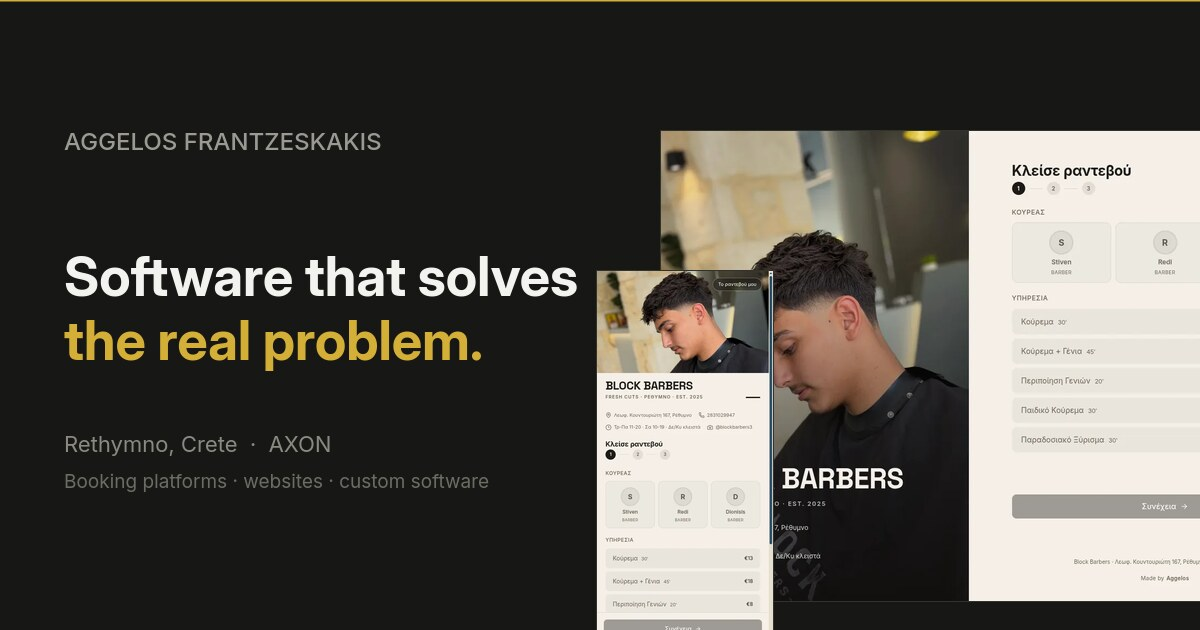
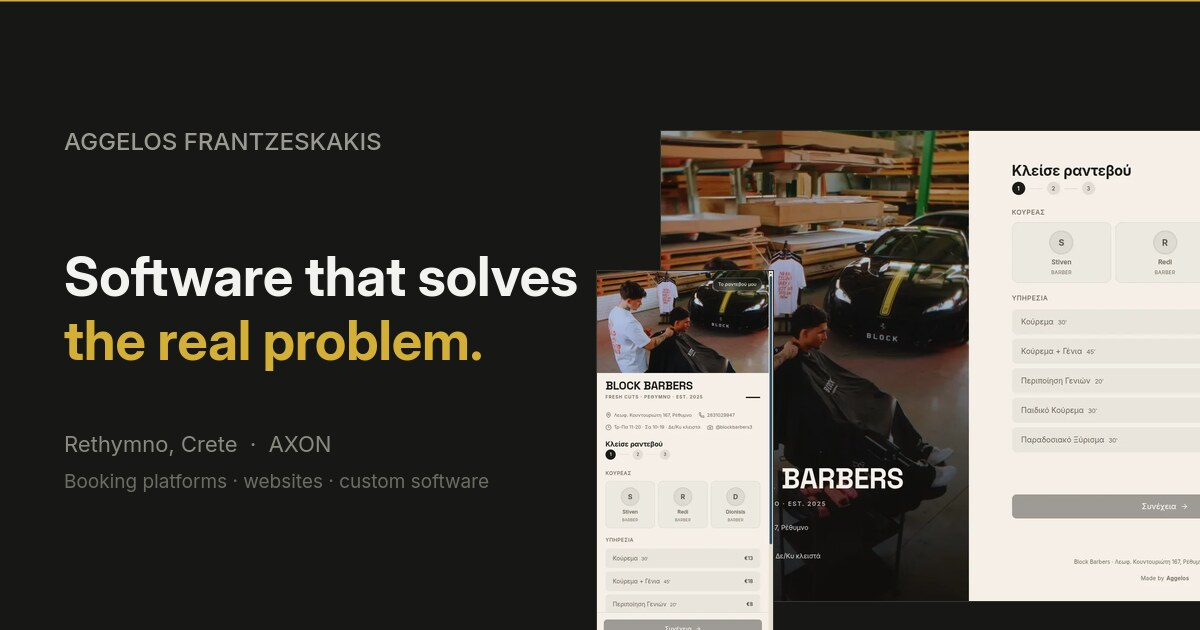
Swap product shots to a no-clear-face photo and remove the intro gate
The booking screenshots and OG card now use the shop's wide interior
photo (faces small or turned away) captured from the live demo. The
intro curtain is gone entirely: the page opens straight into the hero,
whose existing Reveal stagger already carries the entrance.

Changed region(s): [[0.4933, 0.181, 0.8325, 0.8444], [0.6475, 0.8444, 0.6783, 0.9349]]

diff --git a/client/src/lib/uiCopy.ts b/client/src/lib/uiCopy.ts
@@ -83,7 +83,6 @@ export const ui = {
     footerNote: "Aggelos Frantzeskakis · Rethymno, Crete",
     project: { private: "Private", public: "Public", privateKicker: "Private build", publicKicker: "Public project", openProjectPrefix: "Open details for", studyLabel: "Project study", openDetails: "Open details", fallback: "Private build — details on request.", detailFallback: "This study is generated from the current GitHub snapshot.", mixed: "Mixed", stars: "stars", forks: "forks", privateSource: "Source boundary: private", sourceGithub: "Source available on GitHub", closeDetails: "Close details", filterAll: "Everything", filterBusiness: "Business systems", filterAi: "AI", filterOffline: "Offline-first", emptyFilter: "Nothing in this category yet. Try “Everything”." },
     cv: { previewCode: "Document preview / 01", close: "Close CV preview", paperLabel: "Preview of the current factual CV draft", role: "Software Developer — Web & AI Systems (self-taught)", summary: "I ship software that runs in production, not tutorials: booking platforms for real businesses, offline-first PWAs, and tools that run local AI so client data never leaves the device.", selectedWork: "Selected work", capabilities: "Capabilities", currentDraft: "Full CV", grounded: "PDF · A4", draftNote: "The full document covers education, projects, the stack, and availability. Available for full-time work from November 2026.", replacementNote: "Every project listed is one I built and can walk you through, line by line.", confirmDetails: "Ask me anything by email", format: "PDF · A4", keepBrowsing: "Keep browsing", download: "Download CV", openDirectly: "Open PDF directly" },
-    intro: { aria: "Opening the portfolio", name: "Aggelos Frantzeskakis", place: "Rethymno · AXON", line: "Software that solves", lineAccent: "the actual problem.", skip: "Skip" },
     form: { name: "Your name", namePlaceholder: "Name", email: "Your email", emailPlaceholder: "you@example.com", subject: "Subject", subjectPlaceholder: "What this is about", message: "Message", messagePlaceholder: "What is slow, manual, or broken right now...", sending: "Sending securely…", sent: "Message sent. I’ll get back to you soon.", successToastTitle: "Message received", successToastDescription: "Thanks — your note is safely on its way. I’ll reply soon.", emailOpened: "Your email client should open now.", error: "Something went wrong. Please email me directly.", active: "Secure Formspree delivery is active.", fallback: "Email fallback is active until a Formspree endpoint is added.", compose: "Compose email", defaultSubject: "Portfolio collaboration", nameError: "Please enter your name (at least 2 characters).", emailError: "Please enter a valid email address.", subjectError: "Please enter a subject (at least 3 characters).", messageError: "Please enter a message (at least 10 characters)." },
   },
   el: {
@@ -164,7 +163,6 @@ export const ui = {
     footerNote: "Aggelos Frantzeskakis · Ρέθυμνο, Κρήτη",
     project: { private: "Ιδιωτικό", public: "Δημόσιο", privateKicker: "Ιδιωτικό build", publicKicker: "Δημόσιο project", openProjectPrefix: "Άνοιγμα λεπτομερειών για", studyLabel: "Μελέτη project", openDetails: "Άνοιγμα λεπτομερειών", fallback: "Ιδιωτικό build — λεπτομέρειες κατόπιν αιτήματος.", detailFallback: "Αυτή η μελέτη δημιουργείται από το τρέχον snapshot του GitHub.", mixed: "Μικτό", stars: "stars", forks: "forks", privateSource: "Όριο πηγής: ιδιωτικό", sourceGithub: "Η πηγή είναι διαθέσιμη στο GitHub", closeDetails: "Κλείσιμο λεπτομερειών", filterAll: "Όλα", filterBusiness: "Για επιχειρήσεις", filterAi: "AI", filterOffline: "Offline-first", emptyFilter: "Δεν υπάρχει κάτι σε αυτή την κατηγορία ακόμα. Δοκίμασε τα «Όλα»." },
     cv: { previewCode: "Προεπισκόπηση εγγράφου / 01", close: "Κλείσιμο προεπισκόπησης CV", paperLabel: "Προεπισκόπηση του τρέχοντος factual draft CV", role: "Software Developer — Web & AI Systems (αυτοδίδακτος)", summary: "Γράφω λογισμικό που τρέχει σε παραγωγή, όχι tutorials: πλατφόρμες κρατήσεων για πραγματικές επιχειρήσεις, offline-first PWAs, και εργαλεία με τοπικό AI ώστε τα δεδομένα του πελάτη να μη φεύγουν ποτέ από τη συσκευή.", selectedWork: "Επιλεγμένα έργα", capabilities: "Ικανότητες", currentDraft: "Πλήρες CV", grounded: "PDF · A4", draftNote: "Το πλήρες έγγραφο καλύπτει σπουδές, έργα, stack και διαθεσιμότητα. Διαθέσιμος για πλήρη απασχόληση από τον Νοέμβριο του 2026.", replacementNote: "Κάθε έργο της λίστας το έχω χτίσει ο ίδιος και μπορώ να σου το εξηγήσω γραμμή προς γραμμή.", confirmDetails: "Ρώτησέ με ό,τι θες με email", format: "PDF · A4", keepBrowsing: "Συνέχισε την περιήγηση", download: "Λήψη CV", openDirectly: "Άνοιγμα PDF απευθείας" },
-    intro: { aria: "Άνοιγμα του portfolio", name: "Aggelos Frantzeskakis", place: "Ρέθυμνο · AXON", line: "Λογισμικό που λύνει", lineAccent: "το πραγματικό πρόβλημα.", skip: "Παράλειψη" },
     form: { name: "Το όνομά σου", namePlaceholder: "Όνομα", email: "Το email σου", emailPlaceholder: "you@example.com", subject: "Θέμα", subjectPlaceholder: "Σχετικά με", message: "Μήνυμα", messagePlaceholder: "Τι είναι αργό, χειροκίνητο ή χαλασμένο αυτή τη στιγμή...", sending: "Ασφαλής αποστολή…", sent: "Το μήνυμα στάλθηκε. Θα σου απαντήσω σύντομα.", successToastTitle: "Το μήνυμα παραλήφθηκε", successToastDescription: "Ευχαριστώ — το μήνυμά σου στάλθηκε με ασφάλεια. Θα απαντήσω σύντομα.", emailOpened: "Το email client σου θα πρέπει να ανοίξει τώρα.", error: "Κάτι πήγε στραβά. Στείλε μου απευθείας email.", active: "Η ασφαλής παράδοση μέσω Formspree είναι ενεργή.", fallback: "Το email fallback είναι ενεργό μέχρι να προστεθεί Formspree endpoint.", compose: "Σύνταξη email", defaultSubject: "Συνεργασία μέσω portfolio", nameError: "Γράψε το όνομά σου (τουλάχιστον 2 χαρακτήρες).", emailError: "Γράψε ένα έγκυρο email.", subjectError: "Γράψε ένα θέμα (τουλάχιστον 3 χαρακτήρες).", messageError: "Γράψε το μήνυμα (τουλάχιστον 10 χαρακτήρες)." },
   },
 } as const;

diff --git a/client/src/pages/Home.tsx b/client/src/pages/Home.tsx
@@ -406,92 +406,7 @@ function ContactForm({ language }: { language: Language }) {
   </form>;
 }
 
-/**
- * Intro curtain.
- * Shown once per browser session, skippable at any moment, and gone in under a second.
- * A visitor who opens the site twice — a client following up on a link — never waits again.
- */
-function Intro({ onComplete, language }: { onComplete: () => void; language: Language }) {
-  const [progress, setProgress] = useState(0);
-  const [exiting, setExiting] = useState(false);
-  const t = ui[language].intro;
-  const reduced = useReducedMotion();
-
-  const skip = useCallback(() => setExiting(true), []);
-
-  useEffect(() => {
-    let frameId = 0;
-    const duration = reduced ? 200 : 950;
-    const startedAt = window.performance.now();
-
-    const tick = (now: number) => {
-      const ratio = Math.min(1, (now - startedAt) / duration);
-      setProgress(Math.round((1 - Math.pow(1 - ratio, 3)) * 100));
-      if (ratio >= 1) { setExiting(true); return; }
-      frameId = window.requestAnimationFrame(tick);
-    };
-    frameId = window.requestAnimationFrame(tick);
-
-    // The curtain owns the screen while it is up: no scrolling behind it, no stray scrollbar.
-    const previousOverflow = document.body.style.overflow;
-    document.body.style.overflow = "hidden";
-    window.addEventListener("keydown", skip);
-    window.addEventListener("wheel", skip, { passive: true });
-    window.addEventListener("touchstart", skip, { passive: true });
-    return () => {
-      window.cancelAnimationFrame(frameId);
-      document.body.style.overflow = previousOverflow;
-      window.removeEventListener("keydown", skip);
-      window.removeEventListener("wheel", skip);
-      window.removeEventListener("touchstart", skip);
-    };
-  }, [reduced, skip]);
-
-  useEffect(() => {
-    if (!exiting) return;
-    const timer = window.setTimeout(onComplete, reduced ? 60 : 420);
-    return () => window.clearTimeout(timer);
-  }, [exiting, onComplete, reduced]);
-
-  return <motion.div
-    className={`intro ${exiting ? "is-exiting" : ""}`}
-    role="dialog"
-    aria-modal="true"
-    aria-label={t.aria}
-    onClick={skip}
-    initial={{ opacity: 1 }}
-    exit={{ opacity: 0, y: reduced ? 0 : "-4%" }}
-    transition={{ duration: reduced ? .06 : .42, ease: [0.22, 1, 0.36, 1] }}
-  >
-    <div className="intro__rule" aria-hidden="true" style={{ transform: `scaleX(${progress / 100})` }} />
-    <div className="intro__corner intro__corner--top"><span>{t.name}</span><span>{t.place}</span></div>
-
-    <div className="intro__center">
-      <span className="intro__mark" aria-hidden="true">AF</span>
-      <p className="intro__line">{t.line}</p>
-      <p className="intro__accent">{t.lineAccent}</p>
-    </div>
-
-    <div className="intro__corner intro__corner--bottom">
-      <span
-        className="intro__progress"
-        role="progressbar"
-        aria-valuemin={0}
-        aria-valuemax={100}
-        aria-valuenow={progress}
-        aria-label={t.aria}
-      >{String(progress).padStart(3, "0")}</span>
-      <button type="button" className="intro__skip" onClick={skip}>{t.skip}</button>
-    </div>
-  </motion.div>;
-}
-
 export default function Home() {
-  // The intro plays once per session. A client who reopens the link goes straight to the content.
-  const [isLoading, setIsLoading] = useState(() => {
-    if (typeof window === "undefined") return false;
-    try { return window.sessionStorage.getItem("af-intro-seen") !== "1"; } catch { return true; }
-  });
   const [activeSection, setActiveSection] = useState("home");
   const [language, setLanguage] = useState<Language>(() => {
     if (typeof window === "undefined") return "en";
@@ -509,10 +424,6 @@ export default function Home() {
 
   const reduced = useReducedMotion();
   const { theme, toggleTheme } = useTheme();
-  const completeLoading = useCallback(() => {
-    try { window.sessionStorage.setItem("af-intro-seen", "1"); } catch { /* private mode: just move on */ }
-    setIsLoading(false);
-  }, []);
   const t = ui[language];
 
   useEffect(() => {
@@ -607,7 +518,6 @@ export default function Home() {
   });
 
   return <main className={`app-shell motion-${scrollDirection}`} data-active-section={activeSection}>
-    <AnimatePresence>{isLoading && <Intro onComplete={completeLoading} language={language} />}</AnimatePresence>
     <div className="grain" aria-hidden="true" />
     <header className="topbar">
       <a className="brand" href="#home" onClick={(event) => { event.preventDefault(); scrollToSection("home"); }} aria-label={t.brandHome}>

diff --git a/client/src/index.css b/client/src/index.css
@@ -476,25 +476,6 @@ a, button, [role="button"], summary { cursor: pointer; }
 }
 
 /* ─────────────────────────────────────────────────────────────
-   Intro curtain
-   One rule drawing left to right, the wordmark, one honest line.
-   No decoration that has to be explained.
-   ───────────────────────────────────────────────────────────── */
-.intro { position: fixed; inset: 0; z-index: 200; display: grid; place-items: center; overflow: hidden; padding: 24px; color: #f4f4ef; background: #121211; cursor: pointer; isolation: isolate; }
-.intro__rule { position: absolute; top: 0; right: 0; left: 0; height: 2px; background: var(--accent); transform-origin: left center; will-change: transform; }
-.intro__corner { position: absolute; right: 26px; left: 26px; display: flex; align-items: center; justify-content: space-between; gap: 16px; color: rgba(244,244,239,.5); font: 9px 'DM Mono', monospace; letter-spacing: .1em; text-transform: uppercase; }
-.intro__corner--top { top: 24px; }
-.intro__corner--bottom { bottom: 24px; }
-.intro__center { display: flex; flex-direction: column; align-items: center; gap: 0; text-align: center; }
-.intro__mark { display: block; margin-bottom: 26px; color: var(--accent); font: 500 clamp(3.4rem, 12vw, 6rem)/1 'Playfair Display', serif; letter-spacing: -.09em; }
-.intro__line { max-width: 18ch; margin: 0; font: 500 clamp(1.5rem, 5.2vw, 2.75rem)/1.16 'Playfair Display', serif; letter-spacing: -.03em; }
-.intro__accent { max-width: 18ch; margin: 2px 0 0; color: var(--accent); font: italic 500 clamp(1.5rem, 5.2vw, 2.75rem)/1.16 'Playfair Display', serif; letter-spacing: -.03em; }
-.intro__progress { color: var(--accent); font-variant-numeric: tabular-nums; }
-.intro__skip { padding: 8px 4px; color: rgba(244,244,239,.5); background: transparent; font: inherit; letter-spacing: inherit; text-transform: inherit; }
-.intro__skip:hover, .intro__skip:focus-visible { color: #f4f4ef; }
-.intro.is-exiting { pointer-events: none; }
-
-/* ─────────────────────────────────────────────────────────────
    Hero proof — the actual product, on the two screens it runs on.
    ───────────────────────────────────────────────────────────── */
 .hero-proof { position: relative; display: block; width: 100%; padding: 0 0 46px 0; }
@@ -523,8 +504,6 @@ a, button, [role="button"], summary { cursor: pointer; }
 html[lang="el"] .hero-panel h1,
 html[lang="el"] .panel h2,
 html[lang="el"] .skills-tools__head h3 { line-height: 1.04; letter-spacing: -.045em; }
-html[lang="el"] .intro__line,
-html[lang="el"] .intro__accent { line-height: 1.24; letter-spacing: -.02em; }
 html[lang="el"] .hero-panel h1 { font-size: clamp(3.1rem, 6.4vw, 6.6rem); }
 html[lang="el"] .panel h2 { font-size: clamp(2.8rem, 5.6vw, 5.4rem); }
 /* Italic accent lines sit on their own baseline so they never overlap the line above. */
@@ -556,8 +535,6 @@ html[lang="el"] .panel h2 { font-size: clamp(2.8rem, 5.6vw, 5.4rem); }
   .hero-proof__phone { width: 96px; bottom: 20px; }
   .hero-proof__caption { position: static; margin-top: 16px; }
   .hero-proof { padding-bottom: 0; }
-  .intro__corner { right: 16px; left: 16px; font-size: 8px; }
-  .intro__mark { margin-bottom: 18px; }
 }
 
 /* ─────────────────────────────────────────────────────────────
